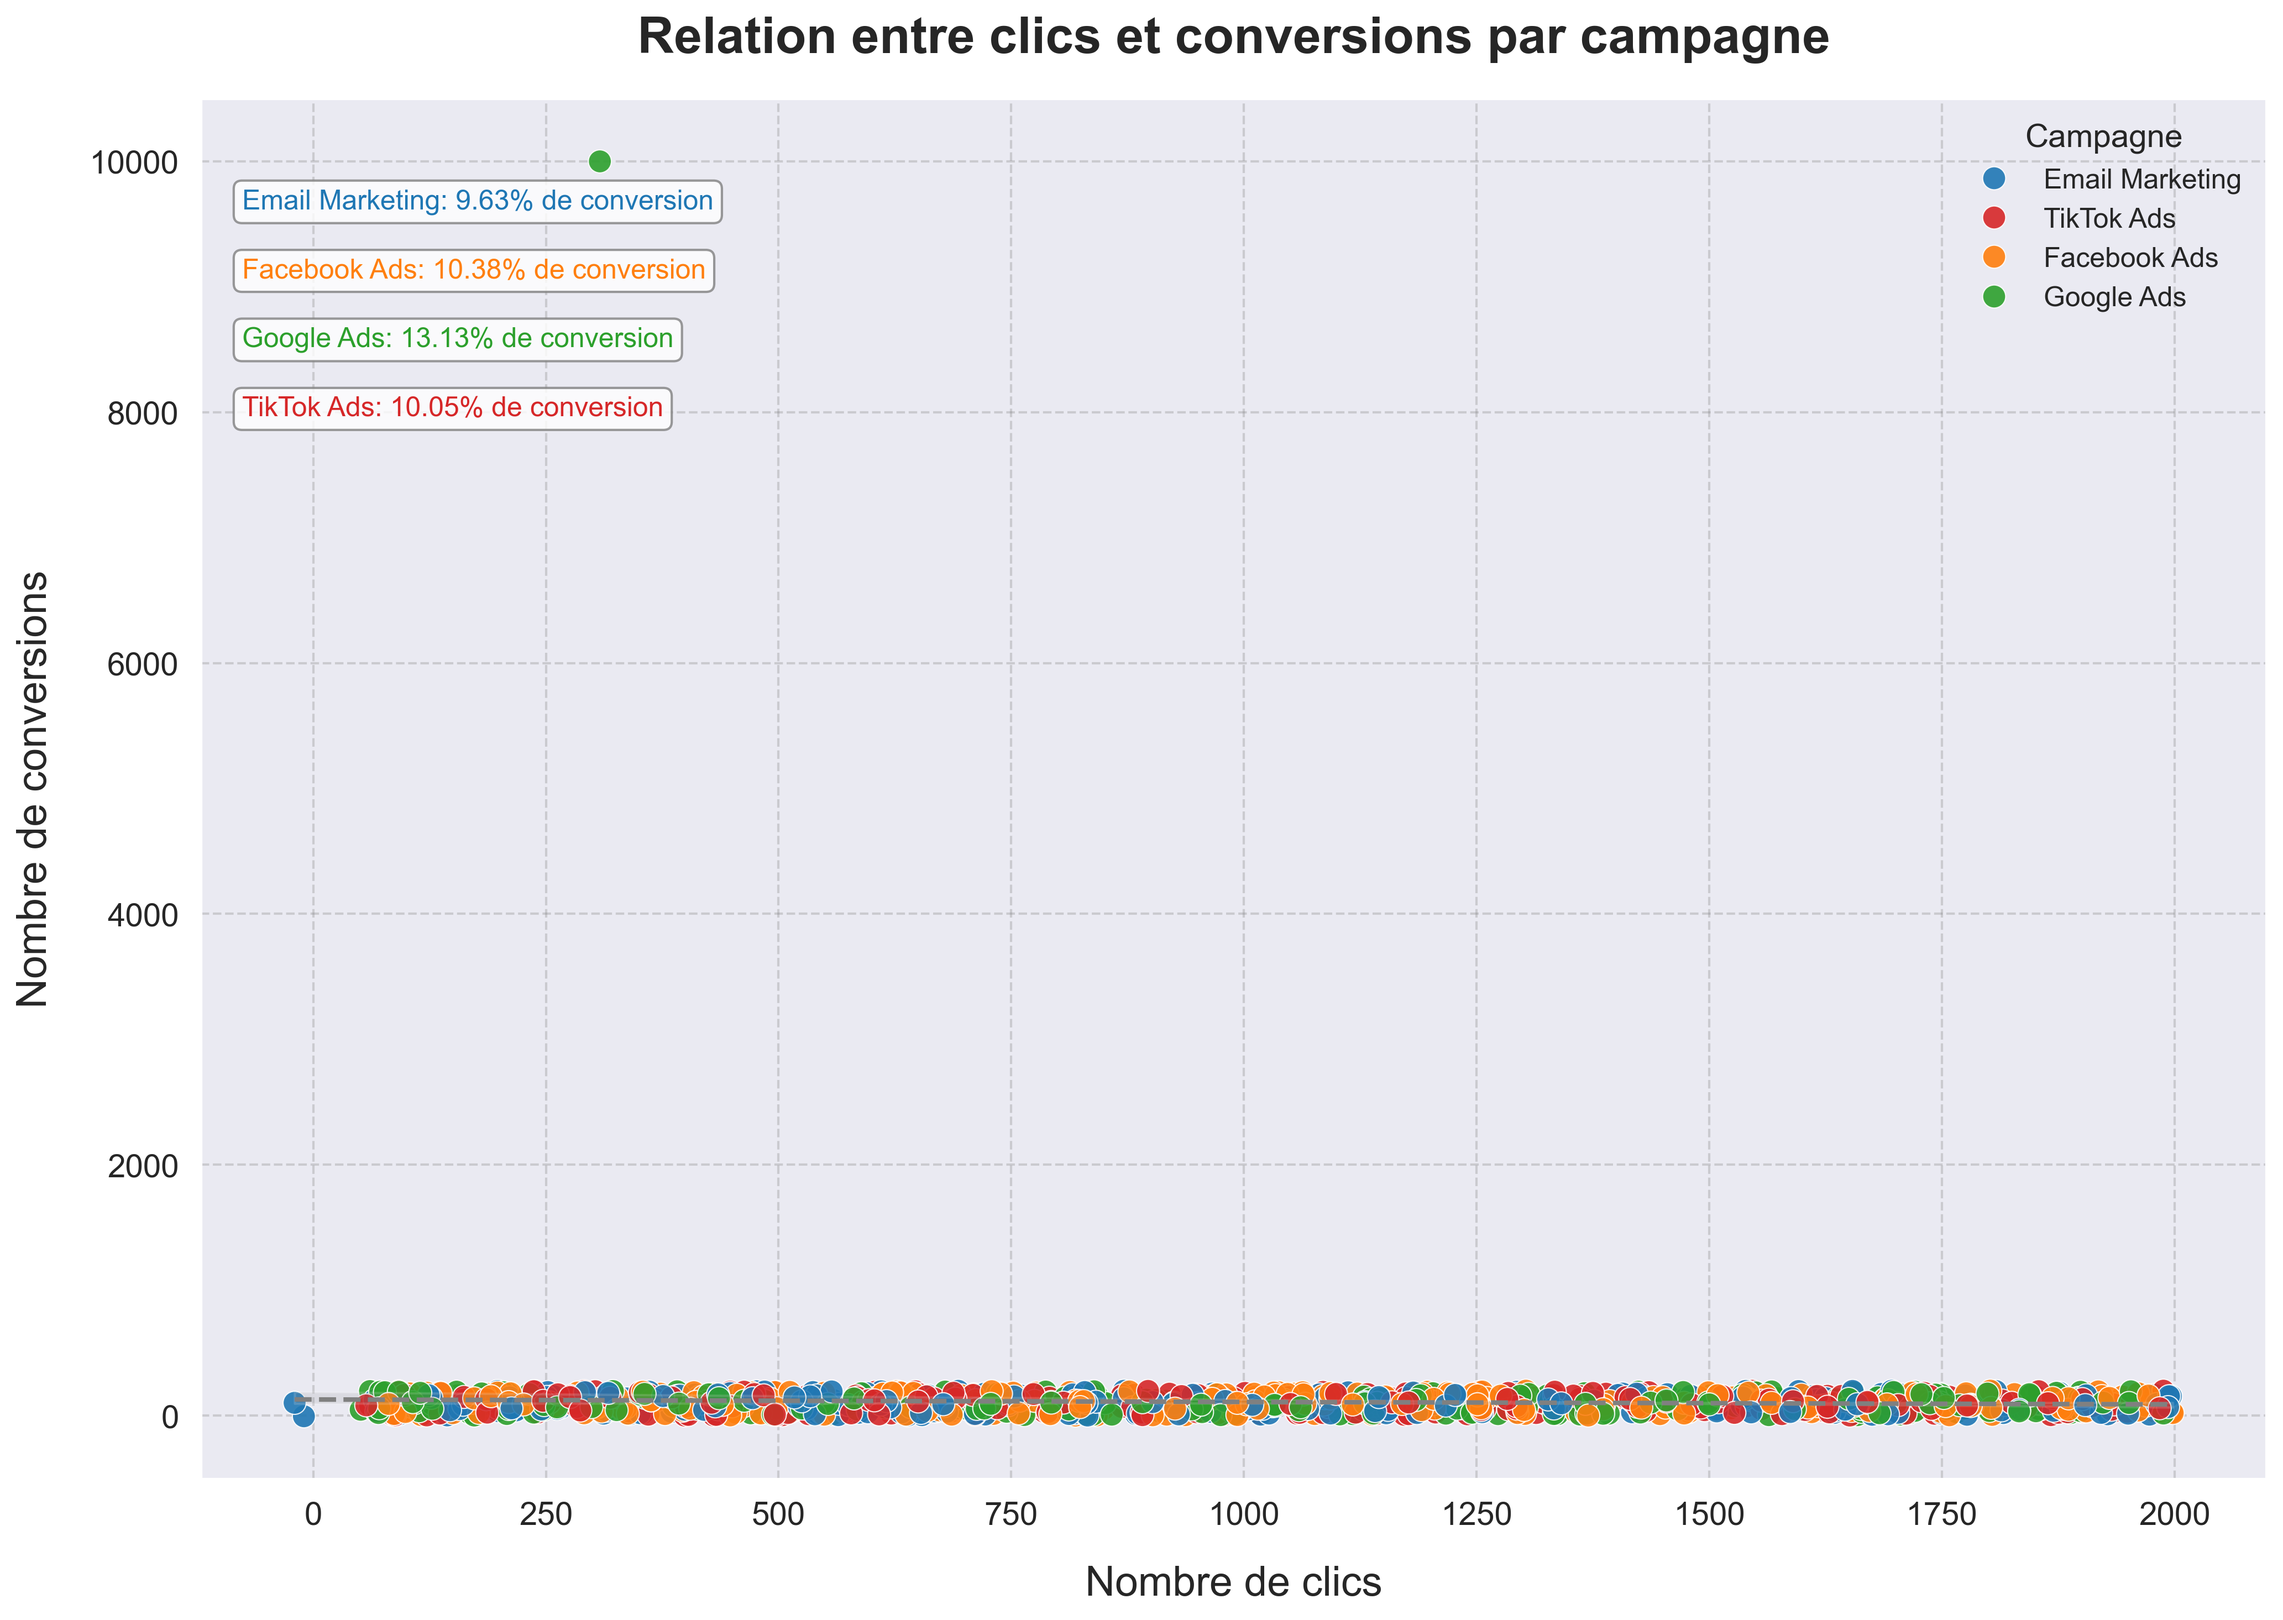
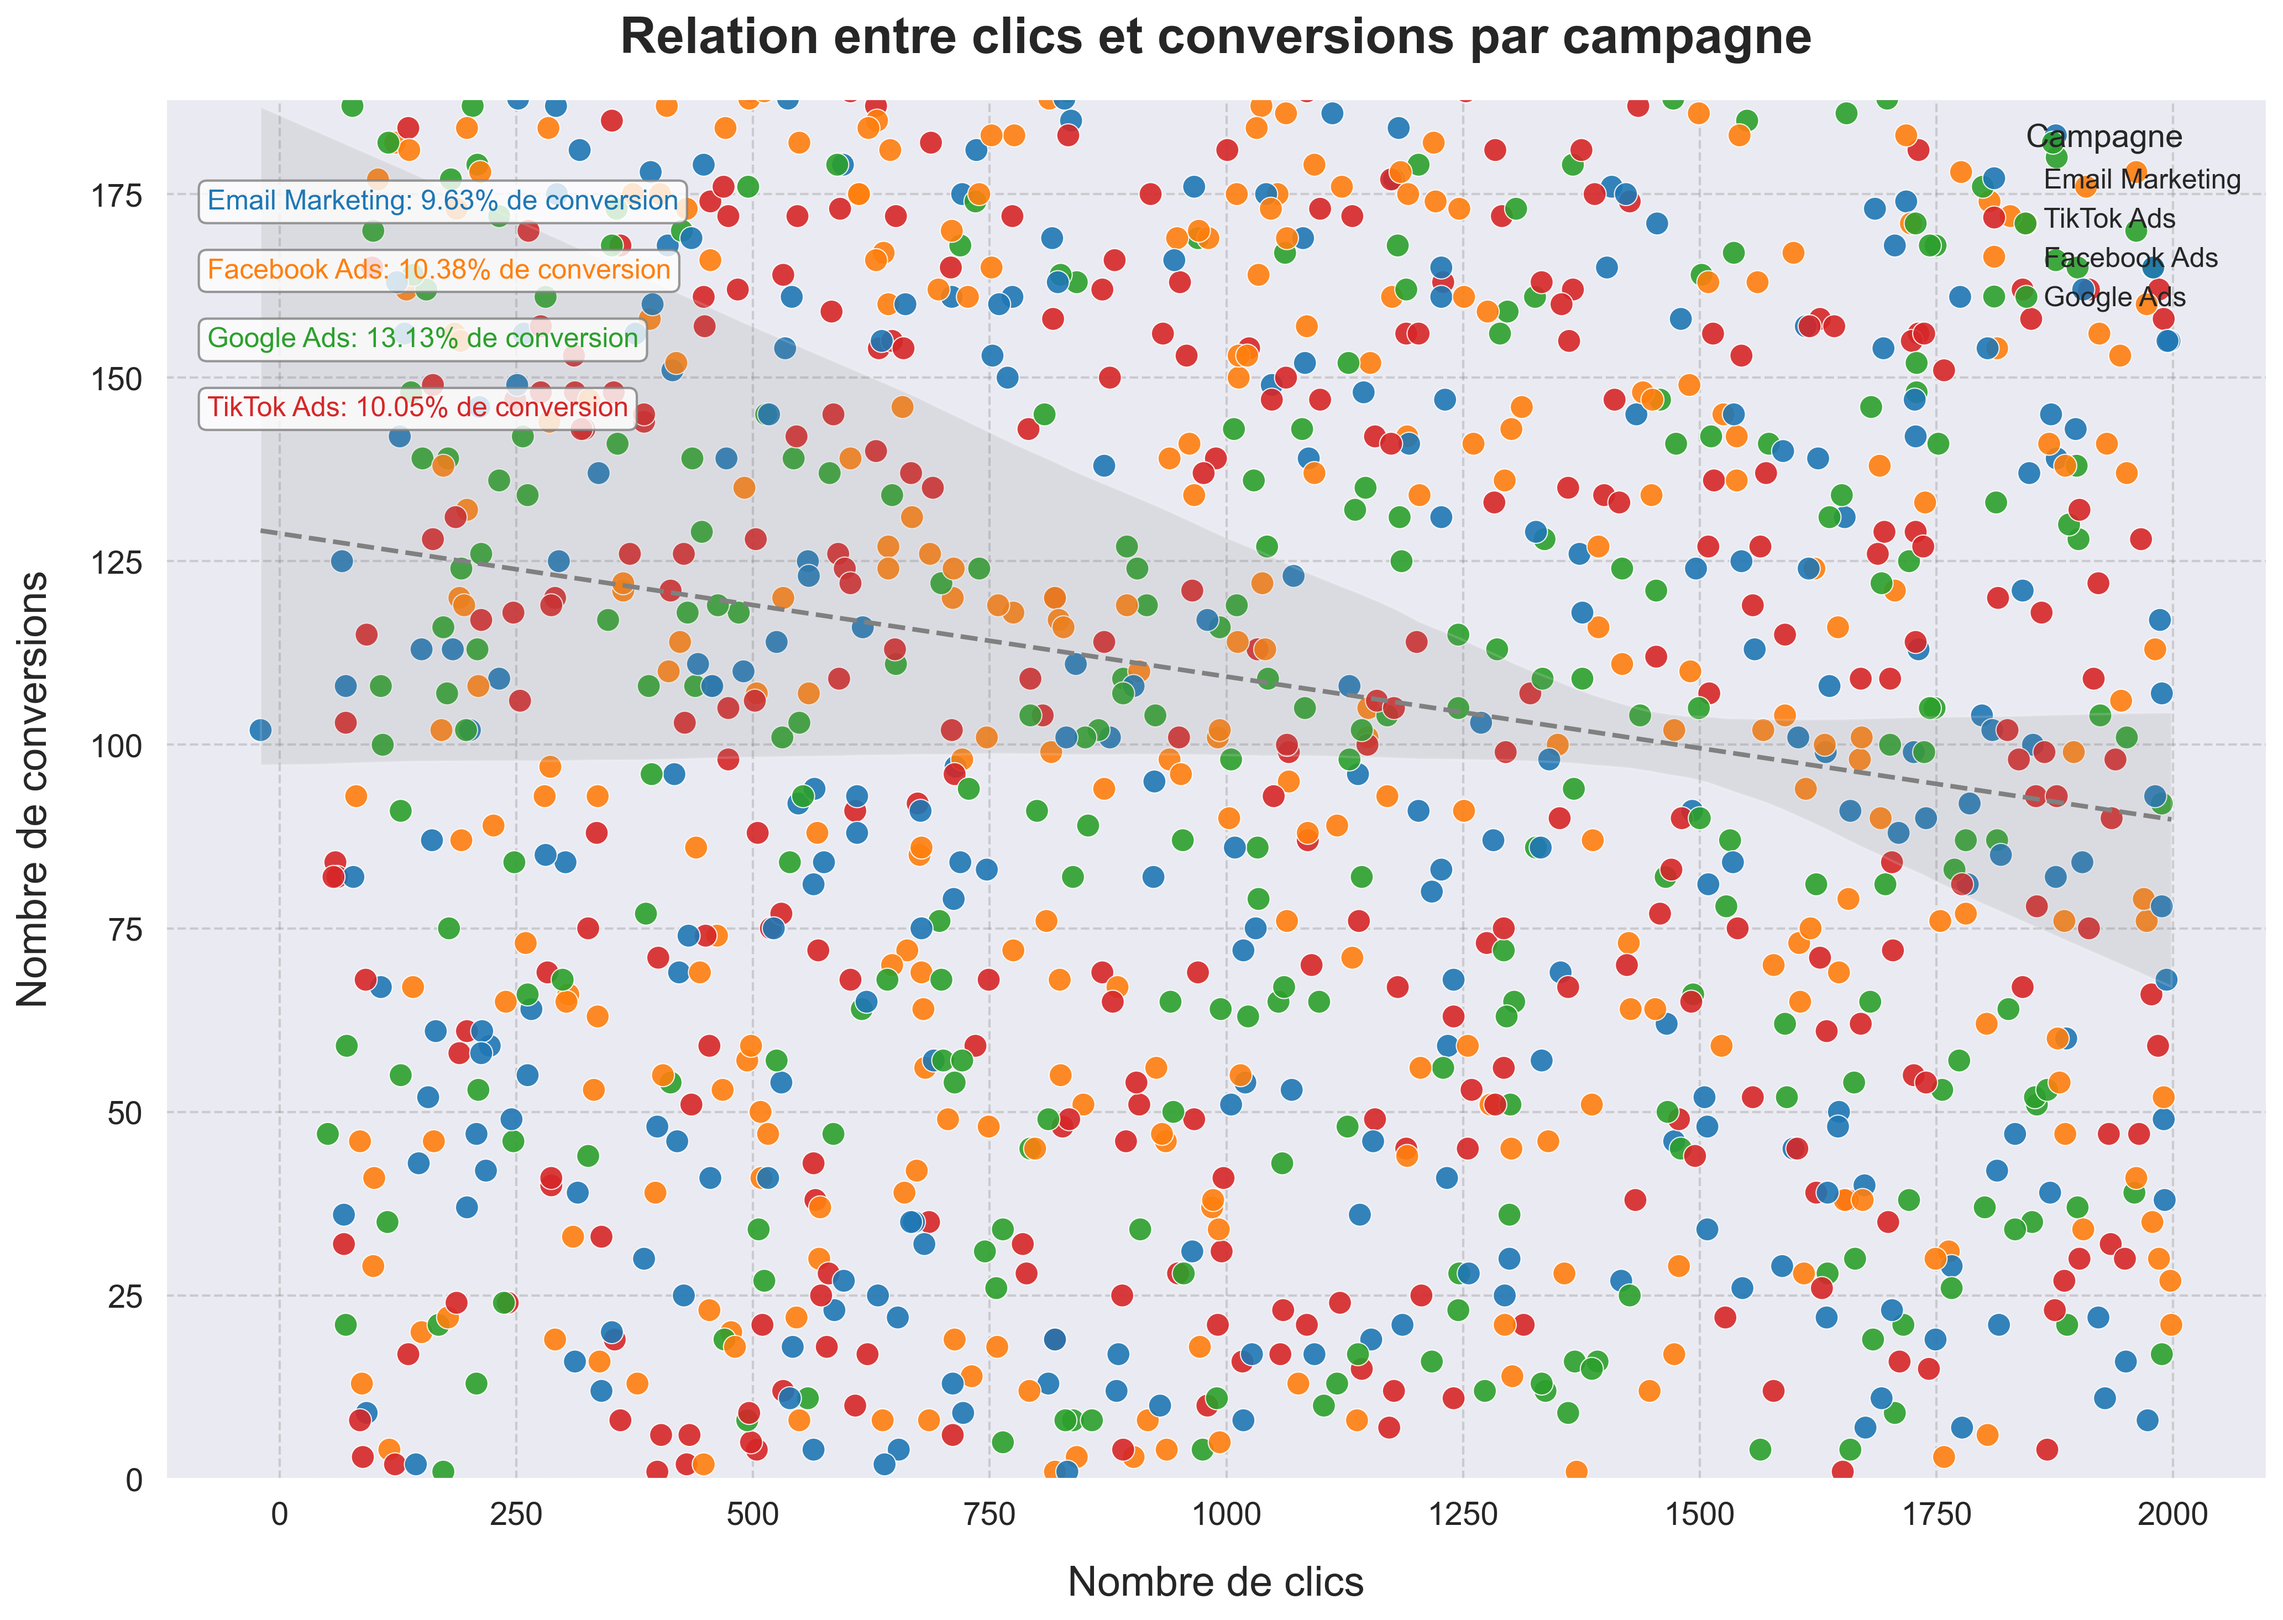
ajustement de l'échelle graph 3

diff --git a/dataviz.py b/dataviz.py
@@ -137,8 +137,8 @@ plt.close()
 print("Graphique d'évolution des clics au fil du temps créé avec succès!")
 
 
-# Version améliorée du scatterplot clics vs conversions avec échelle réduite
-print("Création d'un scatterplot clics vs conversions amélioré...")
+# Version modifiée du scatterplot avec échelle de conversions fixée entre 0 et 2500
+print("Création d'un scatterplot clics vs conversions avec échelle ajustée...")
 
 # Créer la figure avec une taille plus grande et un fond blanc
 plt.figure(figsize=(14, 10), facecolor='white')
@@ -186,10 +186,8 @@ plt.grid(True, linestyle='--', alpha=0.3, color='gray')
 plt.xticks(fontsize=14)
 plt.yticks(fontsize=14)
 
-# Limiter l'échelle de l'axe y pour réduire l'échelle des conversions
-# Vous pouvez ajuster ces valeurs en fonction de votre dataset
-y_max = df['Conversions'].quantile(0.95)  # Utilisez le 95e percentile pour exclure les valeurs extrêmes
-plt.ylim(0, y_max)
+# Fixer l'échelle des conversions entre 0 et 2500
+plt.ylim(0, 2500)
 
 # Calculer le taux de conversion moyen pour chaque campagne
 conversion_rates = df.groupby('Campagne').apply(lambda x: (x['Conversions'].sum() / x['Clics'].sum()) * 100)
